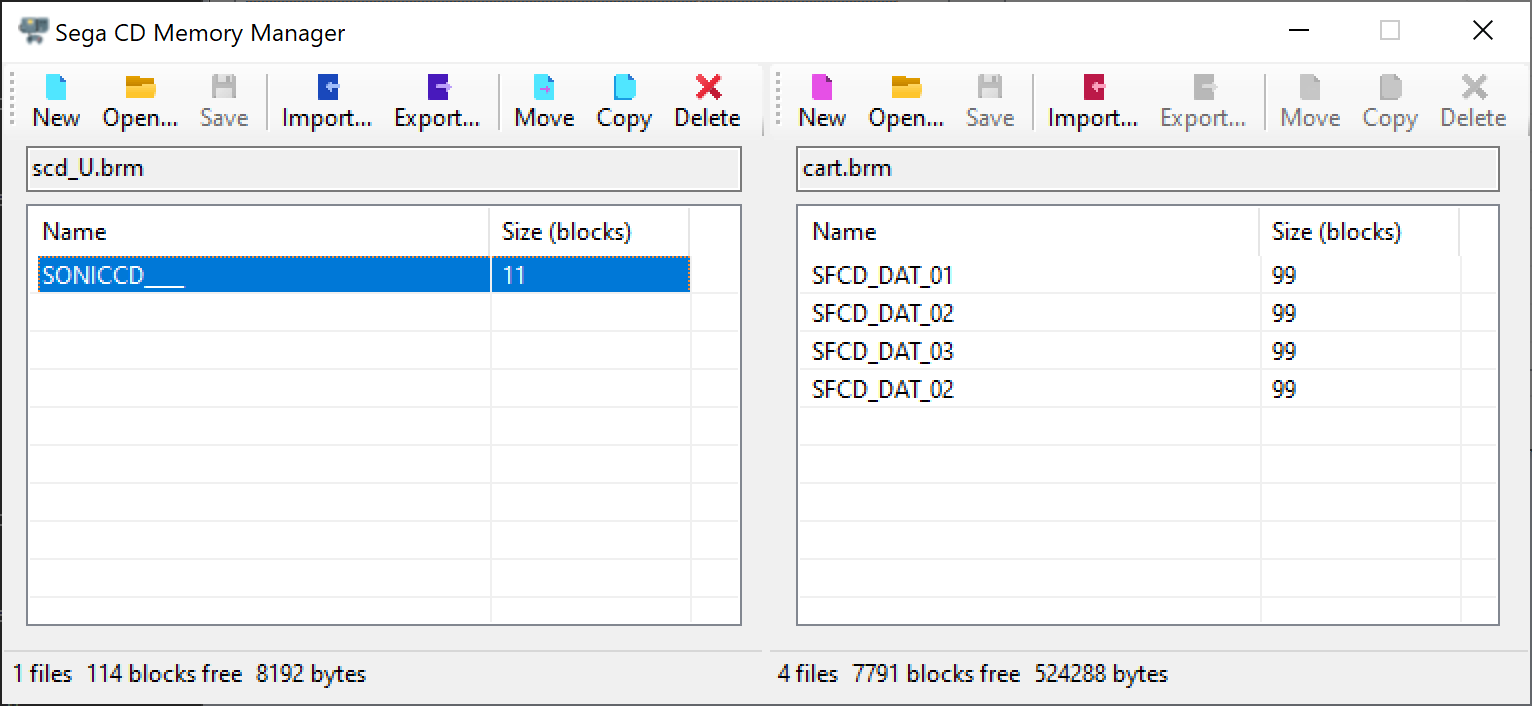
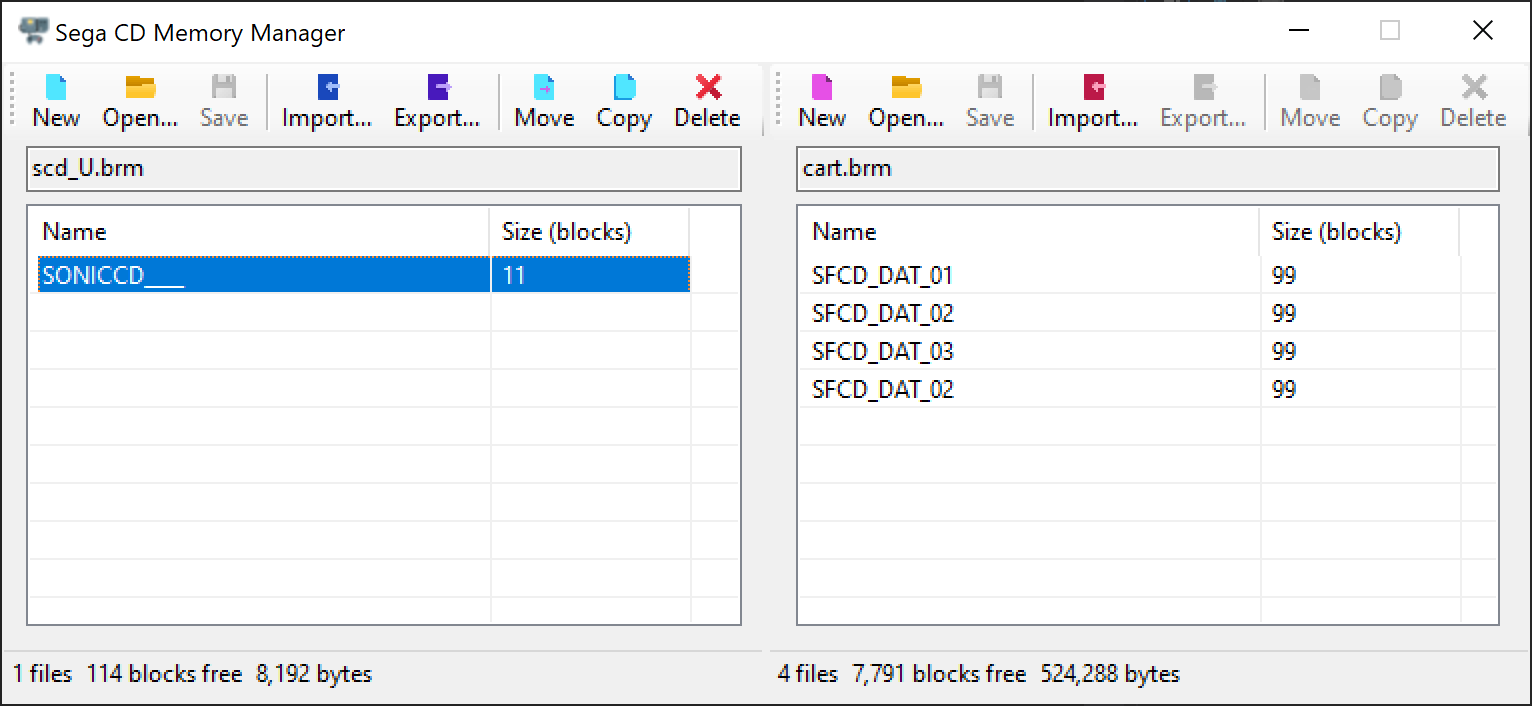
number formatting

diff --git a/SegaCdMemoryManager/MainForm.cs b/SegaCdMemoryManager/MainForm.cs
@@ -248,9 +248,9 @@ namespace SegaCdMemoryManager
 
             toolStripButtonSave.Enabled = _isModified[id];
             textBoxFileName.Text = Path.GetFileName(bramFile.Path);
-            toolStripStatusLabelFilesUsed.Text = $"{bramFile.FilesUsed} files";
-            toolStripStatusLabelBlocksFree.Text = $"{bramFile.BlocksFree} blocks free";
-            toolStripStatusLabelFileSize.Text = $"{bramFile.FileSize} bytes";
+            toolStripStatusLabelFilesUsed.Text = $"{bramFile.FilesUsed:n0} files";
+            toolStripStatusLabelBlocksFree.Text = $"{bramFile.BlocksFree:n0} blocks free";
+            toolStripStatusLabelFileSize.Text = $"{bramFile.FileSize:n0} bytes";
 
             ChangeListView(id);
         }

diff --git a/README.md b/README.md
@@ -2,7 +2,7 @@
 
 <div align="center"><img src="https://gitlab.com/jcfields/sega-cd-memory-manager/raw/master/screenshot.png" width="766" height="353" alt="[Sega CD Memory Manager]"></div>
 
-An program for managing save files for the Sega CD/Mega CD. Written in C# using Windows Forms.
+A program for managing save files for the Sega CD/Mega CD. Written in C# using Windows Forms.
 
 ## Releases
 
